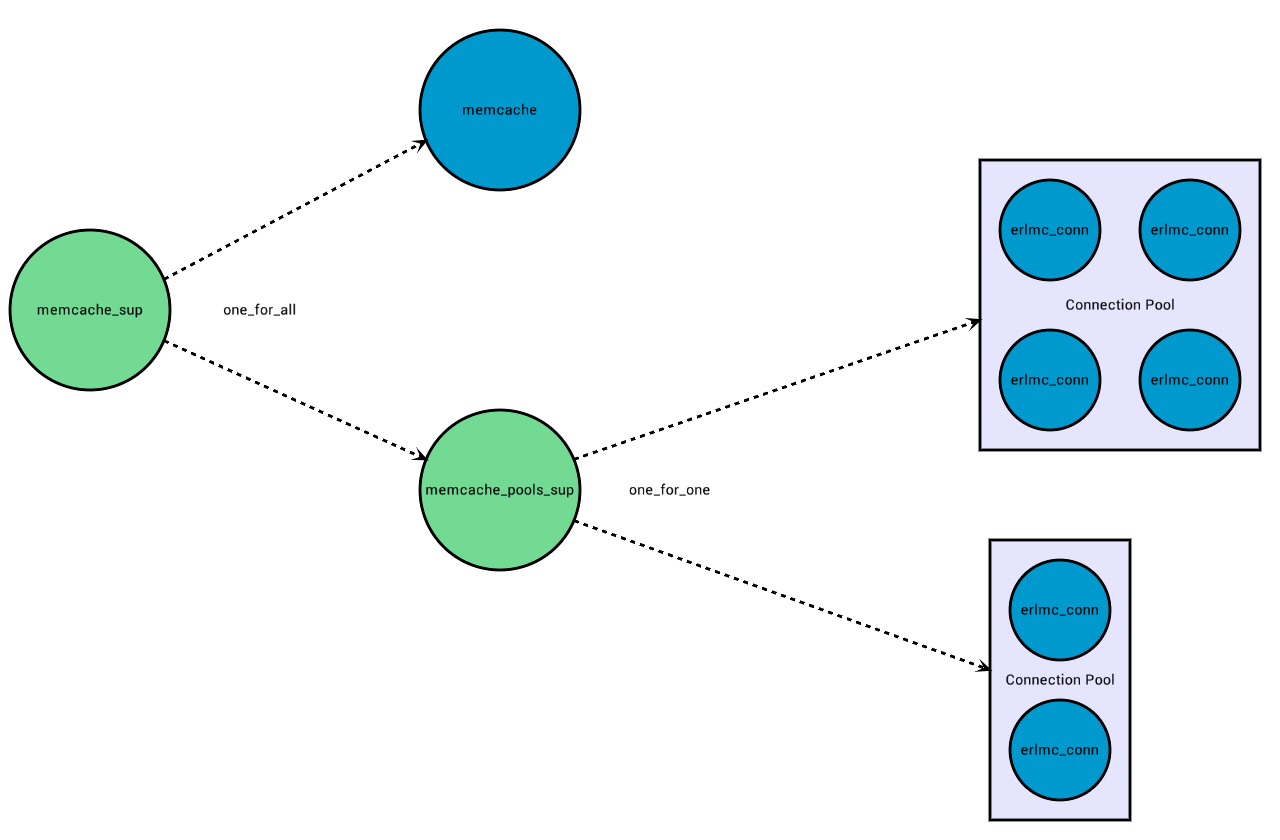
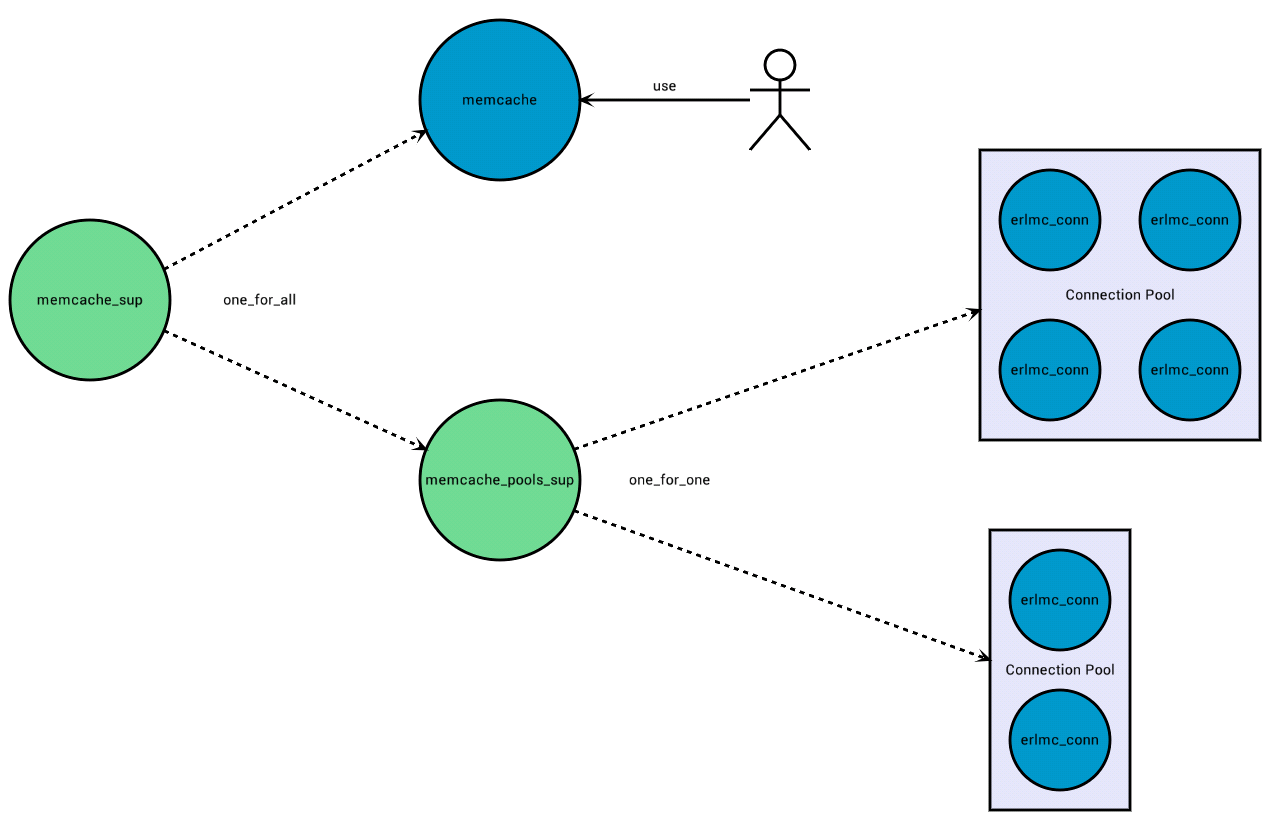
DOC usage reflected in diagram

diff --git a/README.md b/README.md
@@ -13,7 +13,7 @@ should be interacted with.
 Internally, this library is a wrapper around poolboy and erlmc_conn. The first one is used to create a pool of
 connections, while the latter creates a persistent connection to Memcached using its binary protocol.
 
-<img src="doc/images/erl-memcache.png" style="max-height: 500px;"/>
+<img src="doc/images/erl-memcache.png" style="max-height: 400px;"/>
 
 <h3> Features </h3>
 
